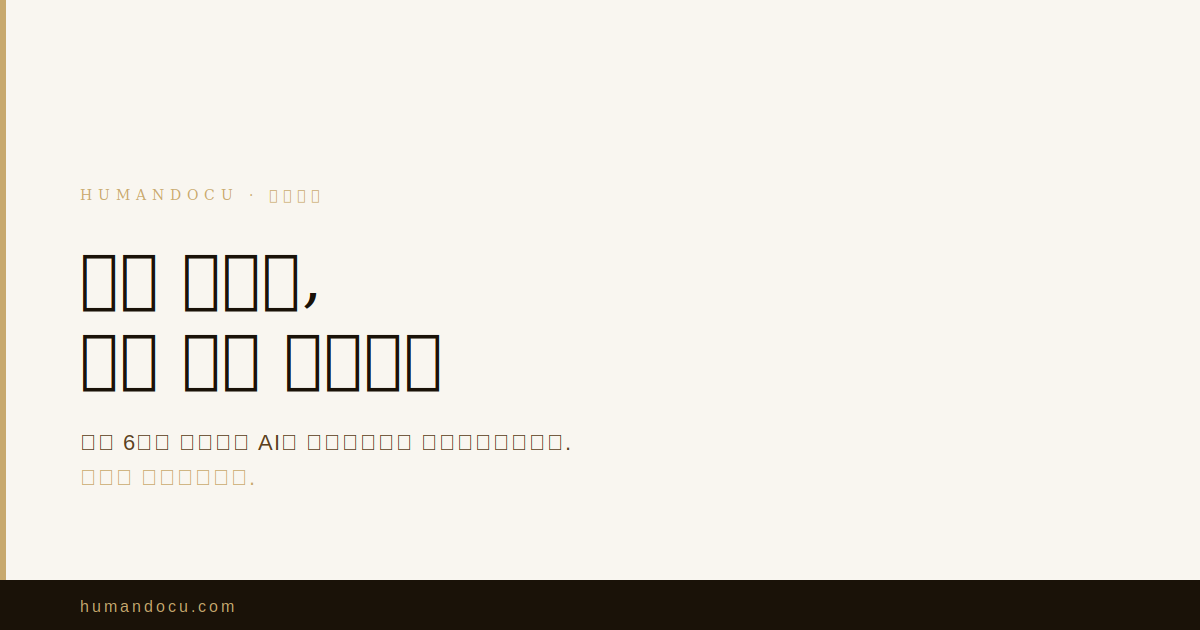
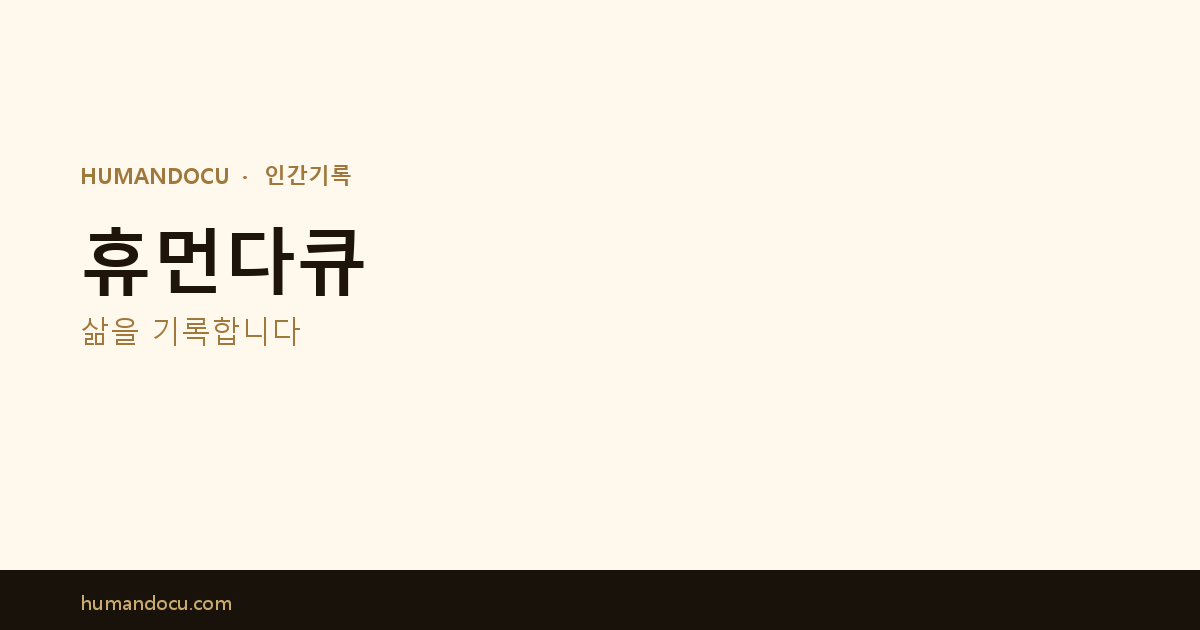
fix: regenerate og_main.png — cream bg + 휴먼다큐 Korean text (Pillow/Malgun)

diff --git a/index.html b/index.html
@@ -270,7 +270,7 @@
 
 
 
-<meta property="og:image" content="https://humandocu.com/today_og.png">
+<meta property="og:image" content="https://humandocu.com/og_main.png">
 
 
 